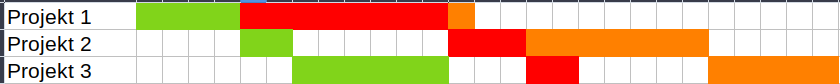
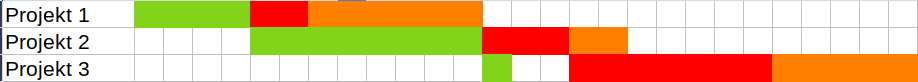
finish docs and fix gantt charts

diff --git a/README.md b/README.md
@@ -1,14 +1,13 @@
 ---
+lang: pl
 title: Projekt z optymalizacji dyskretnej
 subtitle: Problem szeregowanie
 author:
   - Patryk Gronkiewicz 164157
   - Piotr Krawiec 164165
-documentclass: article
-lang: pl
 bibliography: bibliography.bib
 papersize: A4
-subject: Problem szeregowania
+date: \today
 ---
 
 # Czym jest problem szeregowania?
@@ -82,6 +81,8 @@ co na pewno nie pomaga w optymalności uszeregowania zadań.
 Na [rysunku @fig:gantt2] przestawione zostały wiersze projektu 2 i projektu 3 w
 celu poprawienia czytelności, a także pozostawiono "pustą" komórkę, która
 została "zaoszczędzona" dzięki zoptymalizowaniu uszeregowania.
+
+
 
 # Rozwiązanie zadania "dużego"
 
